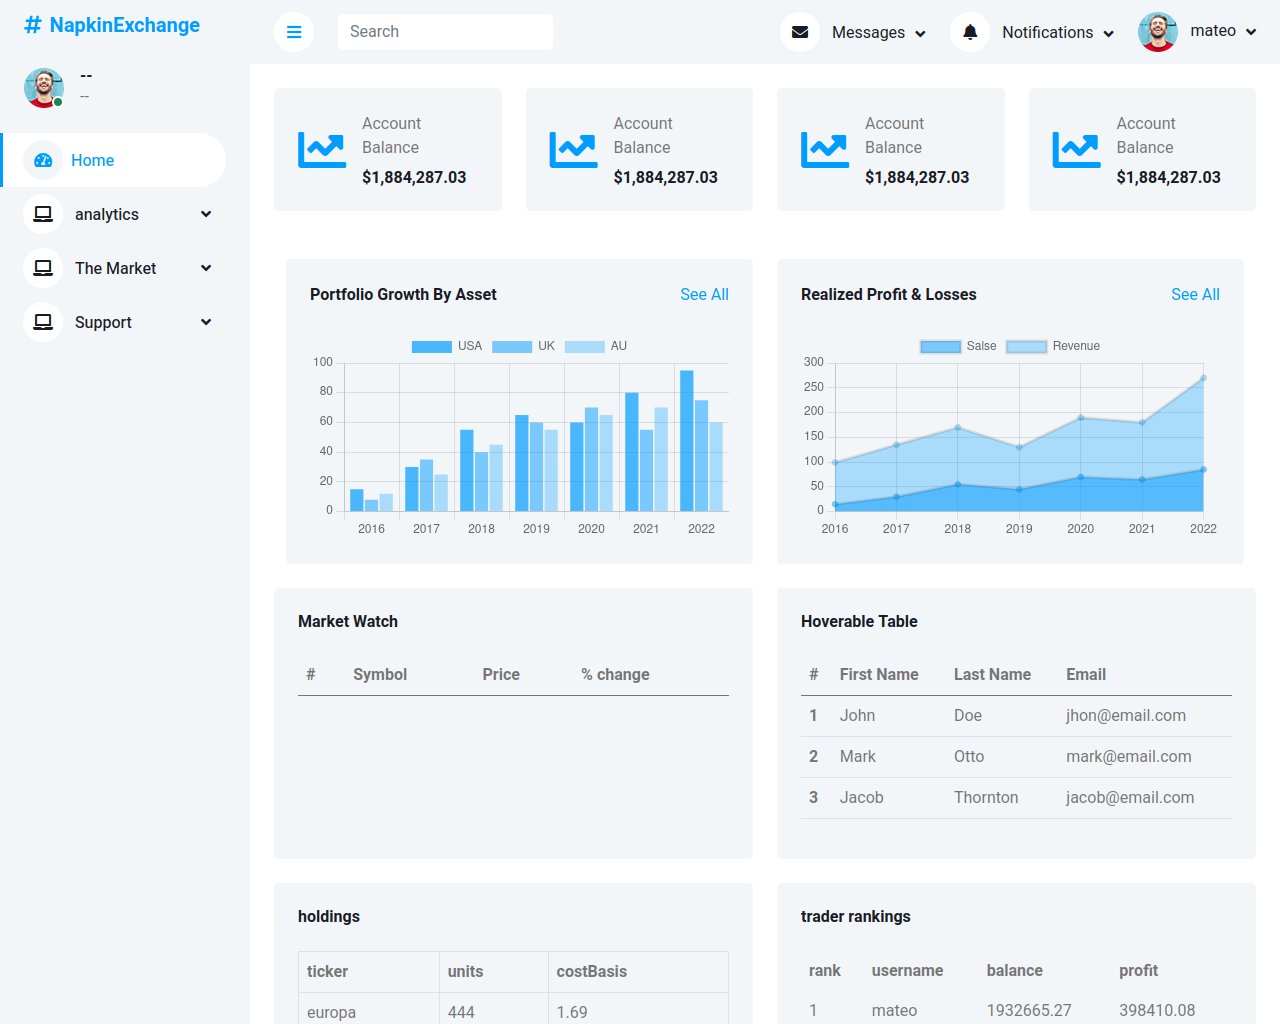
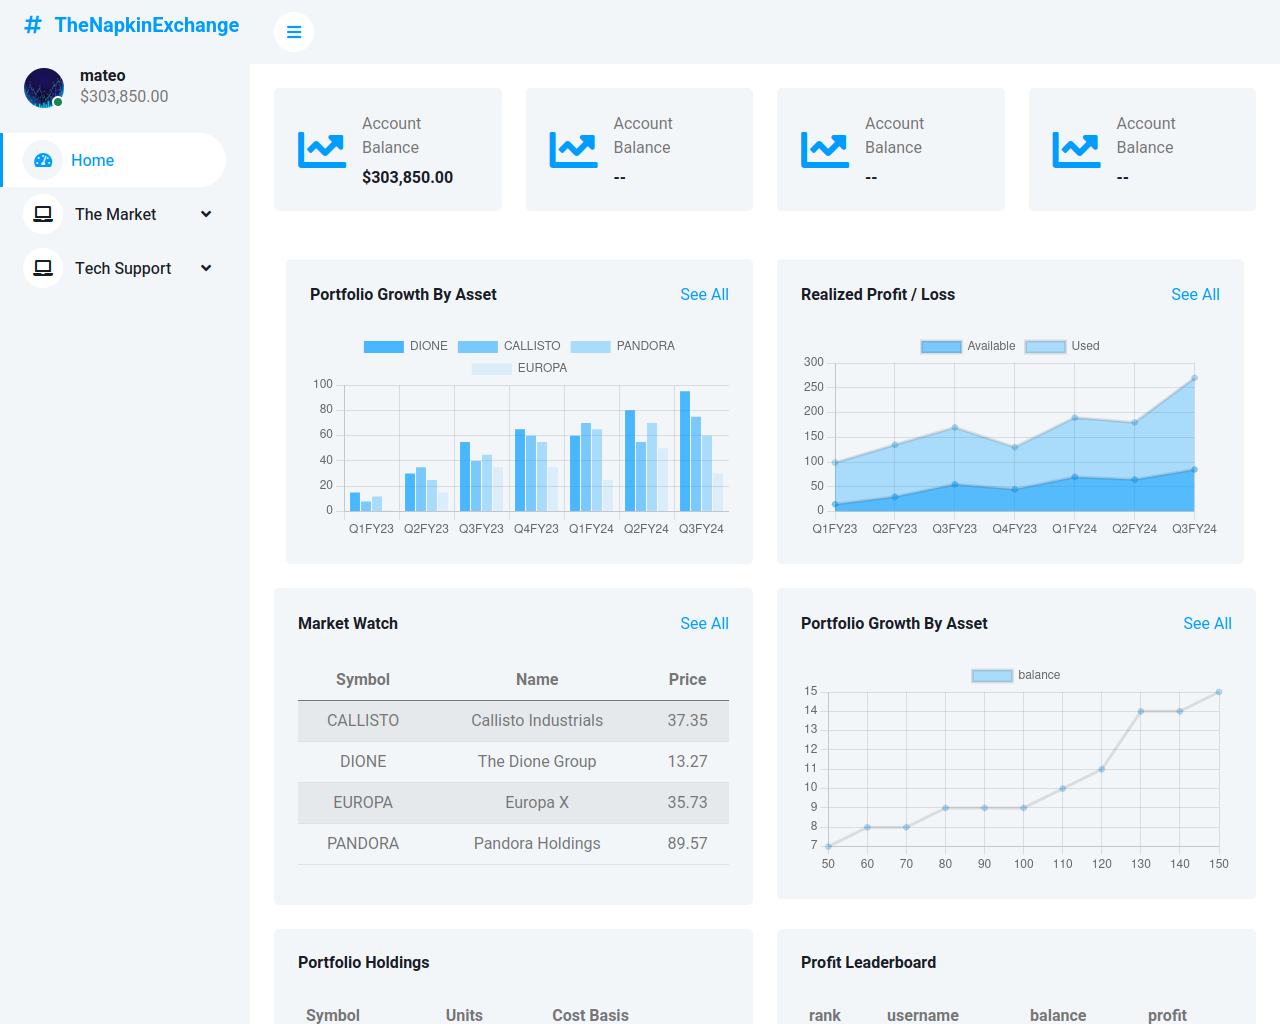
automated terminal push

diff --git a/web/js/main.js b/web/js/main.js
@@ -64,21 +64,27 @@
     var myChart1 = new Chart(ctx1, {
         type: "bar",
         data: {
-            labels: ["2016", "2017", "2018", "2019", "2020", "2021", "2022"],
+
+            labels: [  "Q1FY23",   "Q2FY23",   "Q3FY23",   "Q4FY23",   "Q1FY24",   "Q2FY24",   "Q3FY24"],
             datasets: [{
-                    label: "USA",
+                    label: "DIONE",
                     data: [15, 30, 55, 65, 60, 80, 95],
                     backgroundColor: "rgba(0, 156, 255, .7)"
                 },
                 {
-                    label: "UK",
+                    label: "CALLISTO",
                     data: [8, 35, 40, 60, 70, 55, 75],
                     backgroundColor: "rgba(0, 156, 255, .5)"
                 },
                 {
-                    label: "AU",
+                    label: "PANDORA",
                     data: [12, 25, 45, 55, 65, 70, 60],
                     backgroundColor: "rgba(0, 156, 255, .3)"
+                },
+                {
+                    label: "EUROPA",
+                    data: [1, 15, 35, 35, 25, 50, 30],
+                    backgroundColor: "rgba(0, 156, 255, .1)"
                 }
             ]
             },
@@ -93,15 +99,15 @@
     var myChart2 = new Chart(ctx2, {
         type: "line",
         data: {
-            labels: ["2016", "2017", "2018", "2019", "2020", "2021", "2022"],
+            labels: [ "Q1FY23",   "Q2FY23",   "Q3FY23",   "Q4FY23",   "Q1FY24",   "Q2FY24",   "Q3FY24"],
             datasets: [{
-                    label: "Salse",
+                    label: "Available",
                     data: [15, 30, 55, 45, 70, 65, 85],
                     backgroundColor: "rgba(0, 156, 255, .5)",
                     fill: true
                 },
                 {
-                    label: "Revenue",
+                    label: "Used",
                     data: [99, 135, 170, 130, 190, 180, 270],
                     backgroundColor: "rgba(0, 156, 255, .3)",
                     fill: true
@@ -122,7 +128,7 @@
         data: {
             labels: [50, 60, 70, 80, 90, 100, 110, 120, 130, 140, 150],
             datasets: [{
-                label: "Salse",
+                label: "balance",
                 fill: false,
                 backgroundColor: "rgba(0, 156, 255, .3)",
                 data: [7, 8, 8, 9, 9, 9, 10, 11, 14, 14, 15]
@@ -179,7 +185,6 @@
         }
     });
 
-alert("hey");
 
     // Doughnut Chart
     var ctx6 = $("#doughnut-chart").get(0).getContext("2d");

diff --git a/web/dashboard.html b/web/dashboard.html
@@ -293,7 +293,7 @@ Pristine Template
                         <div class="bg-light text-center rounded p-4">
 
                             <div class="d-flex align-items-center justify-content-between mb-4">
-                                <h6 class="mb-0">Realized Profit & Losses</h6>
+                                <h6 class="mb-0">Realized Profit / Loss</h6>
                                 
 <a href="">See All</a>
 
@@ -308,9 +308,15 @@ Pristine Template
             <!-- Sales Chart End -->
 
 		
-                    <div class="col-sm-12 col-xl-6">
-                        <div class="bg-light rounded h-100 p-4">
-                            <h6 class="mb-4">Market Watch</h6>
+   <div class="col-sm-12 col-xl-6">
+                        <div class="bg-light text-center rounded p-4">
+                            <div class="d-flex align-items-center justify-content-between mb-4">
+                                <h6 class="mb-0">Market Watch</h6>
+                                <a href="">See All</a>
+                            </div>
+
+
+
                             <table id="livepricing" class="table table-hover table-striped">
                                 <thead>
                                     <tr>
@@ -564,35 +570,5 @@ Activity Description
 <script src="scripting/marketwatch/livepricing.js"></script>
 
 <script src="scripting/dashboard/dashboard.js"></script>
-
-<script>
-
-alert("hey");
-
-    // Doughnut Chart
-    var ctx6 = $("#doughnut-chart").get(0).getContext("2d");
-    var myChart6 = new Chart(ctx6, {
-        type: "doughnut",
-        data: {
-            labels: ["Italy", "France", "Spain", "USA", "Argentina"],
-            datasets: [{
-                backgroundColor: [
-                    "rgba(0, 156, 255, .7)",
-                    "rgba(0, 156, 255, .6)",
-                    "rgba(0, 156, 255, .5)",
-                    "rgba(0, 156, 255, .4)",
-                    "rgba(0, 156, 255, .3)"
-                ],
-                data: [55, 49, 44, 24, 15]
-            }]
-        },
-        options: {
-            responsive: true
-        }
-    });
-
-
-</script>
-
 
 </body></html>
